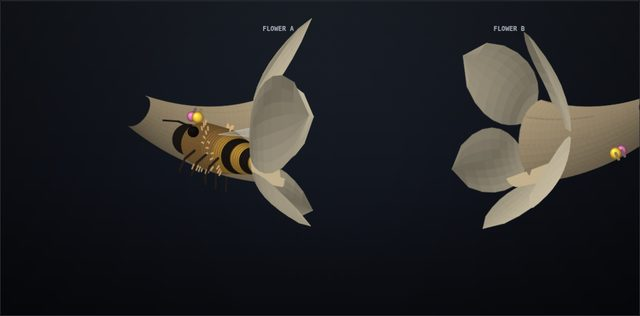
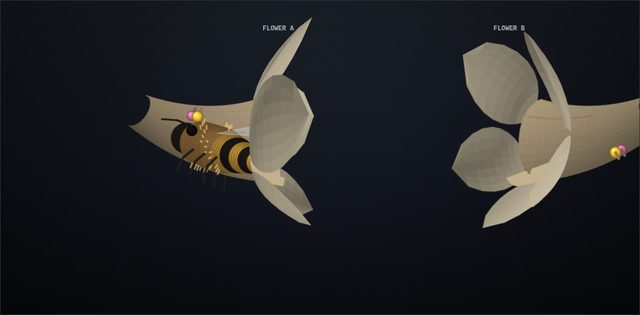
landing: sandbox tile is the page-default run (free sandbox, seed 3) at its last generation, clipped to the hero's verdict/heat/field columns

diff --git a/tools/site-index.html b/tools/site-index.html
@@ -195,7 +195,7 @@
           <img
             src="assets/sandbox-tile.jpg"
             width="640"
-            height="434"
+            height="264"
             alt="The sandbox after a run: the ancestry heatmap beside the flower field"
             loading="lazy"
           />
@@ -209,7 +209,7 @@
           <img
             src="assets/visit-tile.jpg"
             width="640"
-            height="316"
+            height="315"
             alt="The visit: one bee inside flower A, its pollen drawn on its body, beside flower B"
             loading="lazy"
           />

diff --git a/tools/landing-shots.py b/tools/landing-shots.py
@@ -9,8 +9,11 @@ Serves site/ on an ephemeral port (as tools/smoke-site.py does), default
 Playwright Chromium launch (software rendering), viewport 1400x900, device
 scale 1.
 
-  sandbox  level 2, seed 3, click #run, wait for #play to enable, screenshot
-           the #hero section -> assets/sandbox-tile.jpg
+  sandbox  the page default a visitor gets on arrival (free sandbox, seed 3):
+           click #run, wait for #play to enable, move #scrub to its last
+           generation and wait for #sGen to read "<max> / <max>", then clip to
+           the hero's two columns (.heroL verdict + heat, .heroR field) -
+           not the scrubber, stats or bands below -> assets/sandbox-tile.jpg
   visit    load, wait 2.5 s, screenshot the main canvas #c
            -> assets/visit-tile.jpg
 
@@ -55,26 +58,39 @@ def fail(step, err):
     sys.exit(1)
 
 
-def save_tile(page, selector, dest, step):
-    el = page.locator(selector)
-    if el.count() != 1:
-        fail(step, f"expected one {selector}, found {el.count()}")
+def union_box(page, selectors, step):
+    """Page-coordinate box covering every selector (each must match once)."""
+    boxes = []
+    for sel in selectors:
+        el = page.locator(sel)
+        if el.count() != 1:
+            fail(step, f"expected one {sel}, found {el.count()}")
+        b = el.bounding_box()
+        if not b:
+            fail(step, f"{sel} has no bounding box")
+        boxes.append(b)
+    sx, sy = page.evaluate("() => [window.scrollX, window.scrollY]")
+    x0 = min(b["x"] for b in boxes)
+    y0 = min(b["y"] for b in boxes)
+    x1 = max(b["x"] + b["width"] for b in boxes)
+    y1 = max(b["y"] + b["height"] for b in boxes)
+    return {"x": x0 + sx, "y": y0 + sy, "width": x1 - x0, "height": y1 - y0}
+
+
+def save_tile(page, selectors, dest, step):
+    box = union_box(page, selectors, step)
     if Image is not None:
-        png = el.screenshot(type="png")
+        png = page.screenshot(type="png", clip=box, full_page=True)
         img = Image.open(io.BytesIO(png)).convert("RGB")
         h = round(img.height * WIDTH / img.width)
         img = img.resize((WIDTH, h), Image.LANCZOS)
         img.save(dest, "JPEG", quality=QUALITY, optimize=True)
         return img.size
-    # No Pillow: re-render the page at the scale that makes the element 640 px
-    # wide and clip to it.
-    box = el.bounding_box()
-    if not box:
-        fail(step, f"{selector} has no bounding box")
-    scale = WIDTH / box["width"]
-    page.evaluate(f"document.body.style.zoom = {scale}")
-    box = el.bounding_box()
-    page.screenshot(path=dest, type="jpeg", quality=QUALITY, clip=box)
+    # No Pillow: re-render the page at the scale that makes the box 640 px wide
+    # and clip to it.
+    page.evaluate(f"document.body.style.zoom = {WIDTH / box['width']}")
+    box = union_box(page, selectors, step)
+    page.screenshot(path=dest, type="jpeg", quality=QUALITY, clip=box, full_page=True)
     return (round(box["width"]), round(box["height"]))
 
 
@@ -108,12 +124,29 @@ def main():
             resp = page.goto(f"{base}/sandbox.html", wait_until="load")
             if not resp or resp.status != 200:
                 fail(step, f"HTTP {resp.status if resp else None}")
-            page.select_option("#level", "2")
+            # The page default: #level untouched (free sandbox), seed 3.
+            if page.input_value("#level") != "free":
+                fail(step, f"#level default is {page.input_value('#level')!r}, not 'free'")
             page.fill("#seed", "3")
             page.click("#run")
             page.wait_for_selector("#play:not([disabled])", timeout=RUN_TIMEOUT_MS)
+            # Show the last generation, not generation 0.
+            mx = page.evaluate(
+                """() => { const s = document.getElementById('scrub');
+                   s.value = s.max; s.dispatchEvent(new Event('input', {bubbles: true}));
+                   return s.max; }"""
+            )
+            try:
+                page.wait_for_function(
+                    "(m) => document.getElementById('sGen').textContent.trim() === m + ' / ' + m",
+                    arg=str(mx),
+                    timeout=10000,
+                )
+            except Exception:  # noqa: BLE001
+                got = page.text_content("#sGen")
+                fail(step, f"#sGen never read '{mx} / {mx}' after scrubbing (read {got!r})")
             page.wait_for_timeout(500)
-            size = save_tile(page, "#hero", f"{OUT}/sandbox-tile.jpg", step)
+            size = save_tile(page, ["#hero .heroL", "#hero .heroR"], f"{OUT}/sandbox-tile.jpg", step)
             print(f"landing-shots: {OUT}/sandbox-tile.jpg {size[0]}x{size[1]}")
             page.close()
         except SystemExit:
@@ -129,7 +162,7 @@ def main():
             if not resp or resp.status != 200:
                 fail(step, f"HTTP {resp.status if resp else None}")
             page.wait_for_timeout(2500)
-            size = save_tile(page, "#c", f"{OUT}/visit-tile.jpg", step)
+            size = save_tile(page, ["#c"], f"{OUT}/visit-tile.jpg", step)
             print(f"landing-shots: {OUT}/visit-tile.jpg {size[0]}x{size[1]}")
             page.close()
         except SystemExit:
